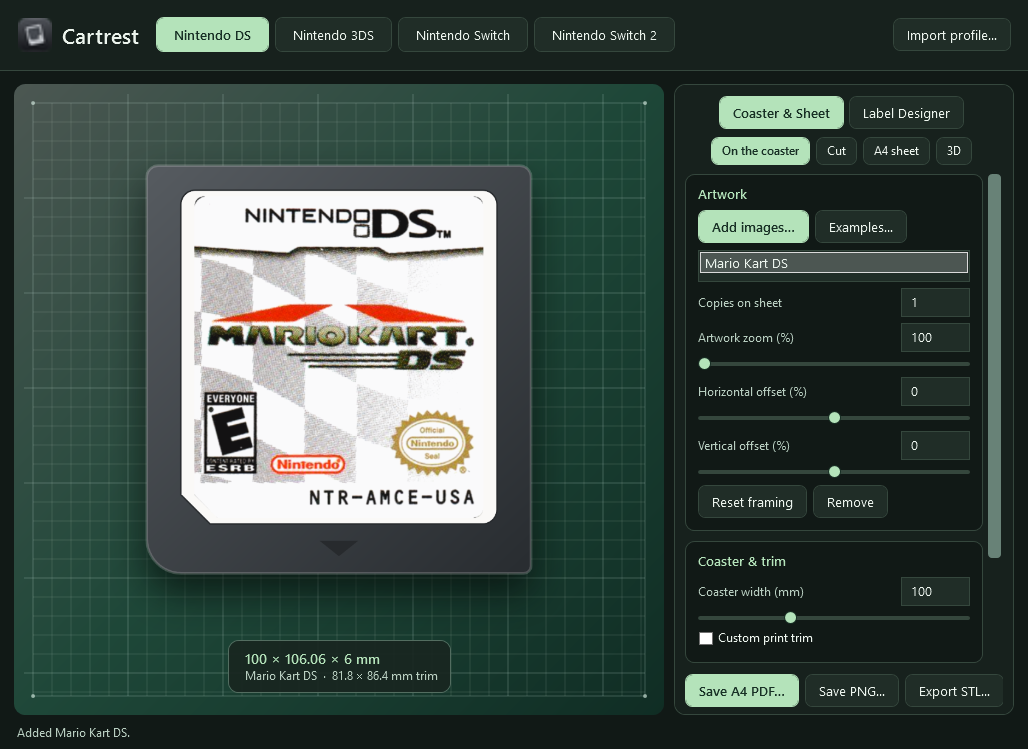
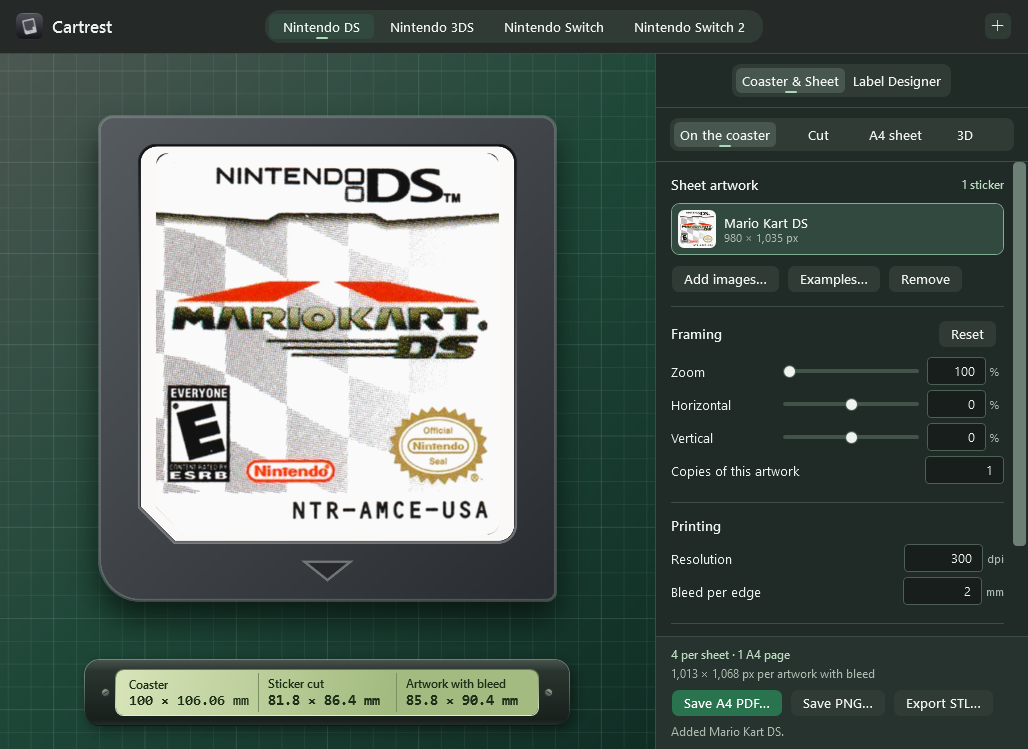
Refresh the Windows preview and Beta 2 download

diff --git a/README.md b/README.md
@@ -10,7 +10,7 @@
   <strong><a href="https://github.com/RafaelCasamaximo/cartrest/releases/latest">Download for macOS</a></strong>
   · macOS 14 or later · Apple Silicon and Intel
   <br>
-  <strong><a href="https://github.com/RafaelCasamaximo/cartrest/releases/tag/v1.4.0-beta.1">Download the Windows beta</a></strong>
+  <strong><a href="https://github.com/RafaelCasamaximo/cartrest/releases/tag/v1.4.0-beta.2">Download the Windows beta</a></strong>
   · Windows 11 x64
 </p>
 
@@ -32,19 +32,23 @@ shasum -a 256 -c Cartrest-1.3.0-macOS-universal.dmg.sha256
 
 ## Install on Windows
 
-Download `Cartrest-1.4.0-beta.1-Windows-x64-Setup.exe`, run the setup wizard, and open **Cartrest** from the Start menu. Setup includes the .NET runtime and installs for your Windows account. The beta installer is unsigned. [Windows beta release](https://github.com/RafaelCasamaximo/cartrest/releases/tag/v1.4.0-beta.1)
+Download `Cartrest-1.4.0-beta.2-Windows-x64-Setup.exe`, run the setup wizard, and open **Cartrest** from the Start menu. Setup includes the .NET runtime and installs for your Windows account. The beta installer is unsigned. [Windows beta release](https://github.com/RafaelCasamaximo/cartrest/releases/tag/v1.4.0-beta.2)
 
 Compare the SHA-256 shown below with the value in the accompanying `.sha256` file.
 
 ```powershell
-Get-FileHash .\Cartrest-1.4.0-beta.1-Windows-x64-Setup.exe -Algorithm SHA256
+Get-FileHash .\Cartrest-1.4.0-beta.2-Windows-x64-Setup.exe -Algorithm SHA256
 ```
 
 The Windows beta includes all four stock console tabs, custom JSON profiles, a rotatable 3D proof, parametric STL export, A4 and PNG export, and the Label Designer. Use **Examples…** for the four retail labels included with each console. In **Nintendo DS → Label Designer**, choose **Load Kirby study** to open the reconstruction with the original-style stepped header and code band. [Windows build and setup guide](windows/README.md)
 
+Cartrest uses your Windows light or dark app appearance. The cutting mat and cartridge retain the palette from the selected console profile.
+
 | Coaster & Sheet on Windows | Kirby study in Windows Label Designer |
 | --- | --- |
 | [![Windows editor showing the Mario Kart DS label in the cartridge recess and the export buttons in the inspector.](docs/images/windows-coaster.png)](docs/images/windows-coaster.png) | [![Windows Label Designer displaying Kirby Super Star Ultra with the stepped white header and the white product code band.](docs/images/windows-label-designer.png)](docs/images/windows-label-designer.png) |
+
+[Windows light appearance](docs/images/windows-coaster-light.png)
 
 ## Lay out a sticker sheet
 
